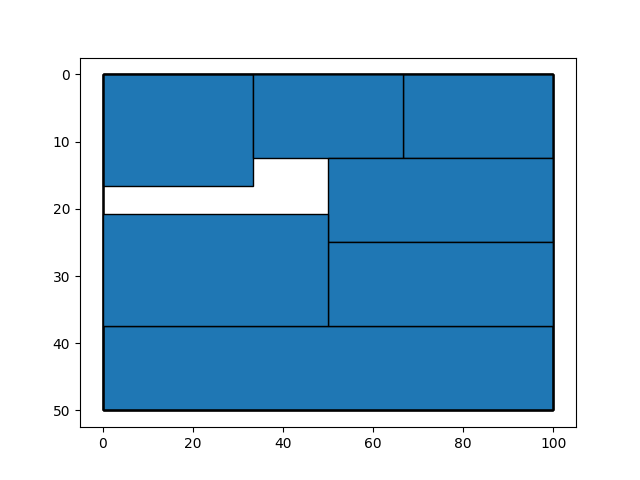
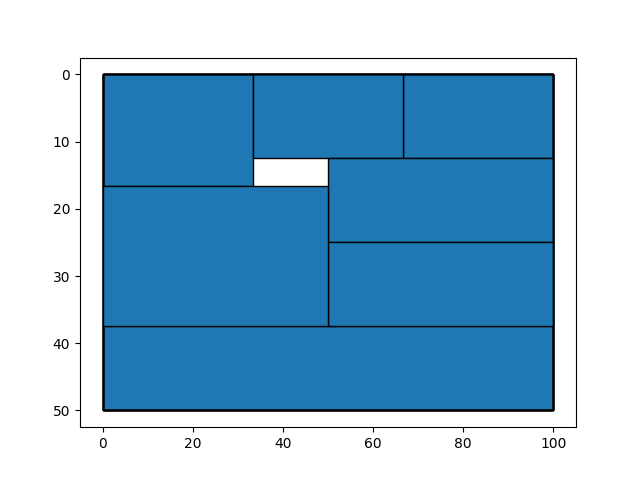
Reparador terminado

Changed region(s): [[0.1562, 0.375, 0.5312, 0.4688]]

diff --git a/Reparador.py b/Reparador.py
@@ -1,6 +1,5 @@
 import Analizador
 import Trazador
-import Generador
 
 
 # Reparamos los huecos o solapamientos que haya entre
@@ -10,52 +9,119 @@ def reparar_0(trazados):
     numero_locales = Analizador.numeroLocales()
 
     print("TODOS: ", trazados)
+    resultado = {}
     for trazado in trazados.items():
-
         datos_local = Analizador.datosLocal(str(trazado[0]))
         lados = datos_local[1]
-        # print(trazado)
         if len(lados) == 1:
             lado = lados
 
             if lado == "1":
-                print(trazado)
+
+                print("ENTRO IF LADO 1")
+
                 local_1 = trazado[0]
                 coordenadas_1 = trazado[1]
-                local_siguiente = (local_1 + 1) % numero_locales
-                coordenadas_siguiente = trazados[local_siguiente]
-                print("siguiente", coordenadas_siguiente)
-                local_previo = (local_1 - 1) % numero_locales
-                coordenadas_previo = trazados[local_previo]
-                print("previo", coordenadas_previo)
-                print(local_siguiente)
-                print(local_previo)
+                local_siguiente_1 = (local_1 + 1) % numero_locales
+                local_previo_1 = (local_1 - 1) % numero_locales
+                coordenadas_siguiente_1 = trazados[local_siguiente_1]
+                # coordenadas_previo_1 = trazados[local_previo]
 
                 # Comprobar local siguiente
+                if ((coordenadas_1[1] != coordenadas_siguiente_1[5]) and
+                (coordenadas_1[3] != coordenadas_siguiente_1[7])):
 
+                    coordenadas_1[1] = coordenadas_siguiente_1[5]
+                    coordenadas_1[3] = coordenadas_siguiente_1[7]
 
-                # Comprobar local previo
+                    resultado[local_1] = coordenadas_1
+                    print("editado: ", resultado)
+                
+                else:
+                    resultado[local_1] = coordenadas_1
+                    print("normal: ", resultado)
+
 
             if lado == "2":
-                print(trazado)
+
+                print("ENTRO LADO 2")
+
                 local_2 = trazado[0]
                 coordenadas_2 = trazado[1]
+                local_siguiente_2 = (local_2 + 1) % numero_locales
+                local_previo_2 = (local_2 - 1) % numero_locales
+                coordenadas_siguiente_2 = trazados[local_siguiente_2]
+                # coordenadas_previo_2 = trazados[local_previo_2]
+
+                # Comprobar local siguiente
+                if ((coordenadas_2[2] != coordenadas_siguiente_2[0]) and
+                (coordenadas_2[6] != coordenadas_siguiente_2[4])):
+
+                    print("ENTRO IF LADO 2")
+
+                    coordenadas_2[2] = coordenadas_siguiente_2[0]
+                    coordenadas_2[6] = coordenadas_siguiente_2[4]
+
+                    resultado[local_2] = coordenadas_2
+                
+                else:
+                    resultado[local_2] = coordenadas_2
 
             if lado == "3":
-                print(trazado)
+
+                print("ENTRO LADO 3")
+
                 local_3 = trazado[0]
                 coordenadas_3 = trazado[1]
+                local_siguiente_3 = (local_3 + 1) % numero_locales
+                local_previo_3 = (local_3 - 1) % numero_locales
+                coordenadas_siguiente_3 = trazados[local_siguiente_3]
+                # coordenadas_previo_3 = trazados[local_previo_3]
+
+                # Comprobar local siguiente
+                if ((coordenadas_3[5] != coordenadas_siguiente_3[1]) and
+                (coordenadas_3[7] != coordenadas_siguiente_3[3])):
+
+                    print("ENTRO IF LADO 3")
+
+                    coordenadas_3[5] = coordenadas_siguiente_3[1]
+                    coordenadas_3[7] = coordenadas_siguiente_3[3]
+
+                    resultado[local_3] = coordenadas_3
+
+                else:
+                    resultado[local_3] = coordenadas_3
 
             if lado == "4":
-                print(trazado)
+
+                print("ENTRO LADO 4")
+
                 local_4 = trazado[0]
                 coordenadas_4 = trazado[1]
+                local_siguiente_4 = (local_4 + 1) % numero_locales
+                local_previo_4 = (local_4 - 1) % numero_locales
+                coordenadas_siguiente_4 = trazados[local_siguiente_4]
+                # coordenadas_previo_4 = trazados[local_previo_4]
+
+                # Comprobar local siguiente
+                if ((coordenadas_4[0] != coordenadas_siguiente_4[2]) and
+                (coordenadas_4[4] != coordenadas_siguiente_4[6])):
+
+                    print("ENTRO IF LADO 4")
+
+                    coordenadas_4[0] = coordenadas_siguiente_4[2]
+                    coordenadas_4[4] = coordenadas_siguiente_4[6]
+
+                    resultado[local_4] = coordenadas_4
+
+                else:
+                    resultado[local_4] = coordenadas_4
 
     
 
-    return 
+    return resultado
 
-reparar_0(Generador.juntar_locales())
+print(reparar_0(Trazador.juntar_locales()))
 
 
 

diff --git a/Generador.py b/Generador.py
@@ -1,3 +1,4 @@
+import Reparador
 from types import MappingProxyType
 import Analizador
 import Trazador
@@ -39,7 +40,8 @@ def generador_D_1(trazo_D):
     aux = Analizador.lectura_planta_csv()
     maximos = aux[0]
     max_x = int(maximos[0]) 
-    
+    reparado = Reparador.reparar_0(Trazador.juntar_locales())
+   
 
     # Compruebo si hay locales de camino mínimo
     if (len(comparador_envolturas()) > 0):
@@ -56,8 +58,10 @@ def generador_D_1(trazo_D):
 
             if datos_local[1] == '1':
 
-                trazo = trazo_D
-                trazado = trazo_D[int(datos_local[0])]
+                # trazo = trazo_D
+                # trazado = trazo_D[int(datos_local[0])]
+                trazo = reparado
+                trazado = reparado[int(datos_local[0])]
 
                 trazado[2] = trazado[6] = max_x / 2
                 trazo[int(datos_local[0])] = trazado
@@ -82,6 +86,7 @@ def generador_D_2(trazo_D):
     maximos = aux[0]
     max_x = int(maximos[0])
     n_locales = Analizador.n_locales()    
+    reparado = Reparador.reparar_0(Trazador.juntar_locales())
     
 
     # Compruebo si hay locales de camino mínimo
@@ -97,8 +102,10 @@ def generador_D_2(trazo_D):
 
             if (datos_local[1] == '1'):
 
-                trazo = trazo_D
-                trazado = trazo_D[int(datos_local[0])]
+                # trazo = trazo_D
+                # trazado = trazo_D[int(datos_local[0])]
+                trazo = reparado
+                trazado = reparado[int(datos_local[0])]
 
                 trazado[2] = trazado[6] = max_x - max_x / max(int(n_locales["N2"]), int(n_locales["N4"]))
                 trazo[int(datos_local[0])] = trazado
@@ -117,6 +124,8 @@ def generador_D_3(trazo_D):
     maximos = aux[0]
     max_y = int(maximos[1])
     n_locales = Analizador.n_locales()
+    reparado = Reparador.reparar_0(Trazador.juntar_locales())
+
     
     
     # Consigo los datos del lado exterior y de su opuesto
@@ -125,8 +134,10 @@ def generador_D_3(trazo_D):
     for datos_local in datos_lado_exterior:
         if datos_local[1] == '2':
 
-            trazo = trazo_D
-            trazado = trazo_D[int(datos_local[0])]
+            # trazo = trazo_D
+            # trazado = trazo_D[int(datos_local[0])]
+            trazo = reparado
+            trazado = reparado[int(datos_local[0])]
 
             trazado[5] = trazado[7] = max_y - max_y / max(int(n_locales["N1"]), int(n_locales["N3"]))
             trazo[int(datos_local[0])] = trazado
@@ -152,7 +163,8 @@ def generador_D_4(trazo_D):
     aux = Analizador.lectura_planta_csv()
     maximos = aux[0]
     max_x = int(maximos[0])
-    n_locales = Analizador.n_locales()    
+    n_locales = Analizador.n_locales()
+    reparado = Reparador.reparar_0(Trazador.juntar_locales())
     
 
     # Compruebo si hay locales de camino mínimo
@@ -170,8 +182,10 @@ def generador_D_4(trazo_D):
 
             if datos_local[1] == '3':
 
-                trazo = trazo_D
-                trazado = trazo_D[int(datos_local[0])]
+                # trazo = trazo_D
+                # trazado = trazo_D[int(datos_local[0])]
+                trazo = reparado
+                trazado = reparado[int(datos_local[0])]
 
                 trazado[0] = trazado[4] = max_x / max(int(n_locales["N2"]), int(n_locales["N4"]))
                 trazo[int(datos_local[0])] = trazado
@@ -182,28 +196,20 @@ def generador_D_4(trazo_D):
 # Variante 5: Estándar
 def generador_D_5(trazo_D):
 
-    return trazo_D
+    resultado = Reparador.reparar_0(Trazador.juntar_locales())
+
+    return resultado
+    # return trazo_D
 
 
 # Función que devuelve las coordenadas de todas las variantes de locales D
 def juntar_variantes():
     
     variantes = [generador_D_1(Trazador.trazar_D()), generador_D_2(Trazador.trazar_D()),
-    generador_D_3(Trazador.trazar_D()), generador_D_4(Trazador.trazar_D()), generador_D_5(Trazador.trazar_D())]
+                generador_D_3(Trazador.trazar_D()), generador_D_4(Trazador.trazar_D()),
+                generador_D_5(Trazador.trazar_D())]
 
     return variantes
 
 
-# Función que devuelve todos los locales con sus coordenadas de variante estándar
-def juntar_locales():
-
-    coordenadas = {}
-
-    coordenadas_A = Trazador.trazar_A()
-    coordenadas_B = Trazador.trazar_B()
-    coordenadas_D = Trazador.trazar_D()
-
-    coordenadas = {**coordenadas_A, **coordenadas_B, **coordenadas_D}
-    coordenadas_ord = dict(sorted(coordenadas.items()))
-
-    return coordenadas_ord
+print(generador_D_1(Trazador.trazar_D()))

diff --git a/Trazador.py b/Trazador.py
@@ -110,8 +110,6 @@ def trazar_D():
 
         if dato[1] == ["1"]:
 
-            # print("Entramos en lado 1")
-
             # Guardo su número de local
             numero = int(dato[0])
 
@@ -161,7 +159,6 @@ def trazar_D():
 
 
         if dato[1] == ["3"]:
-
 
             numero = int(dato[0])
 
@@ -228,3 +225,18 @@ def trazos():
     trazos = trazo_A | trazo_B
     
     return trazos
+
+
+# Función que devuelve todos los locales con sus coordenadas de variante estándar
+def juntar_locales():
+
+    coordenadas = {}
+
+    coordenadas_A = trazar_A()
+    coordenadas_B = trazar_B()
+    coordenadas_D = trazar_D()
+
+    coordenadas = {**coordenadas_A, **coordenadas_B, **coordenadas_D}
+    coordenadas_ord = dict(sorted(coordenadas.items()))
+
+    return coordenadas_ord
